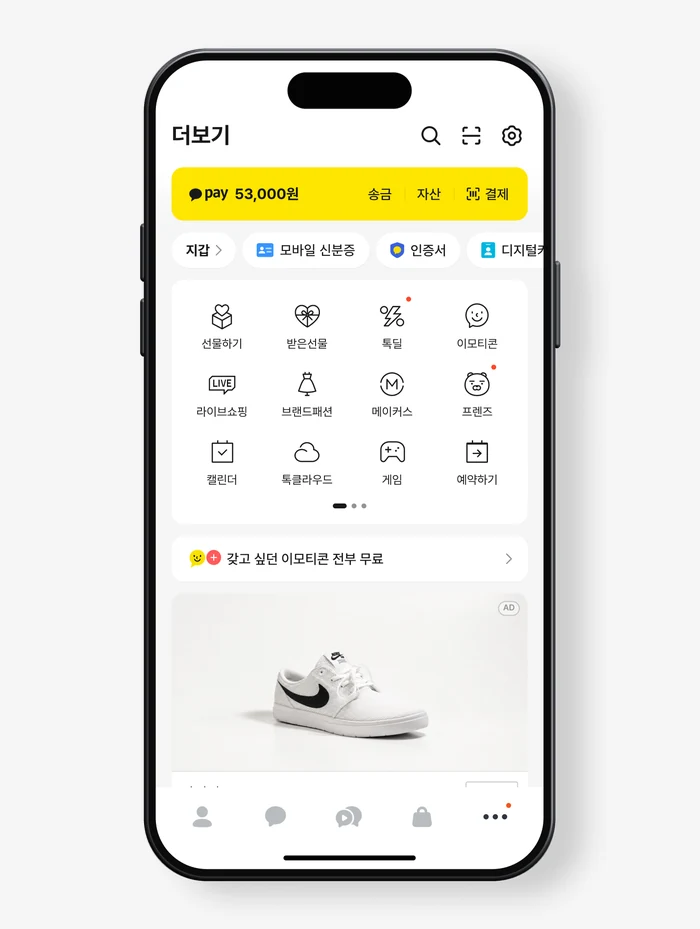
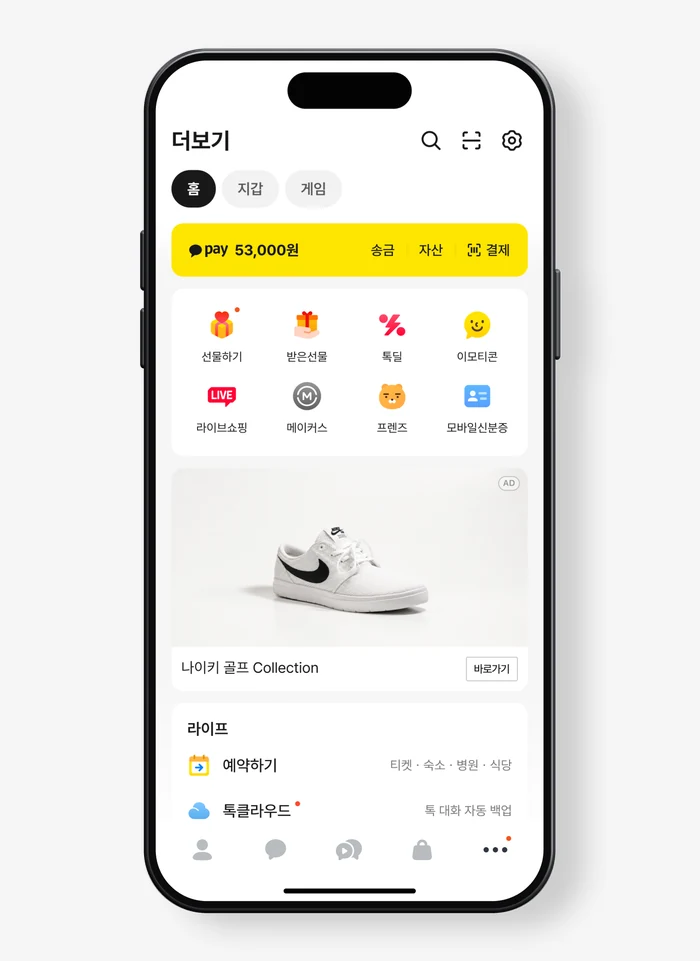
썸네일 세 장 평면 버전으로 복원, 더보기탭 히어로를 그리드+리스트 화면으로
- 홈 썸네일(더보기탭·다음앱·TalkLint)을 다른 썸네일과 같은 평면 화면 크롭으로 되돌림
- 상세 히어로를 실험 전 화면에서 13장 하이브리드 화면으로 교체, 2차 혼합 구조 그림은 덱 13장 주석 무대로

diff --git a/index.html b/index.html
@@ -72,7 +72,7 @@
         <p class="gal-desc">이용 변화와 매출 영향을 함께 검증했습니다.</p>
       </a></li>
       <li><a href="list-exploration.html">
-        <div class="gal-thumb"><img src="img/case03-s.webp?v=202611171900" width="1092" height="705" alt="기울어진 폰 화면 속 더보기탭. 페이 띠 아래 서비스 그리드와 라이프 리스트가 이어진다"></div>
+        <div class="gal-thumb"><img src="img/case03-s.webp?v=202611171930" width="1092" height="705" alt="그리드와 리스트를 함께 쓰는 실험안에서 고른 두 부분. 위는 4열 2행 그래픽 아이콘 그리드, 아래는 라이프 카테고리 리스트"></div>
         <h3>더보기탭 탐색 개선<span class="gal-badge is-quiet" title="후속 디자인 진행 중">WIP</span></h3>
         <p class="gal-desc">그리드와 리스트를 결합한 탐색 구조를 설계했습니다.</p>
       </a></li>
@@ -93,7 +93,7 @@
     <h2 class="gal-title" id="h-sys">Systems</h2>
     <ul class="gal">
       <li><a href="talklint.html">
-        <div class="gal-thumb"><img src="img/talklint-s.webp?v=202611171900" width="1092" height="705" alt="기울어진 TalkLint 플러그인 창. 검수 방식과 검수 범위 스위치가 보인다"></div>
+        <div class="gal-thumb"><img src="img/talklint-s.webp?v=202611171930" width="1092" height="705" alt="TalkLint 수정 미리보기의 바꿀 색 고르기와 전후 비교. 연한 노랑 버튼이 지금, 디자인 시스템 노랑으로 바뀐 버튼이 고친 뒤"></div>
         <h3>TalkLint</h3>
         <p class="gal-desc">가이드 원문으로 판단하는 AI 검수 도구를 만들었습니다.</p>
       </a></li>
@@ -114,7 +114,7 @@
     <h2 class="gal-title" id="h-fnd">Redesigns</h2>
     <ul class="gal">
       <li><a href="daum-app.html">
-        <div class="gal-thumb"><img src="img/daumapp-c.webp?v=202611171900" width="1092" height="705" alt="층으로 띄운 다음앱 홈 화면. 인사말과 검색창, 날씨·증시 카드, 피드 카드가 겹겹이 떠 있다"></div>
+        <div class="gal-thumb"><img src="img/daumapp-c.webp?v=202611171930" width="1092" height="705" alt="다음앱 개편 화면 두 장. 인사말과 검색창, 날씨·증시 카드가 있는 홈과 추천 피드 화면"></div>
         <h3>다음앱 구조 개편</h3>
         <p class="gal-desc">홈과 피드를 연결하는 탐색 구조를 설계했습니다.</p>
       </a></li>

diff --git a/list-exploration.html b/list-exploration.html
@@ -22,8 +22,8 @@
   <article class="cs">
     <figure class="cs-hero">
       <picture>
-        <source media="(max-width:820px)" srcset="img/case02/d-hero-m.webp?v=202611171900" width="700" height="929">
-        <img src="img/case02/d-hero.webp?v=202611171900" width="2240" height="1430" alt="실험 전 더보기탭 첫 화면. 상단 페이 영역, 지갑 바로가기 줄, 4열 3행 서비스 그리드, 이모티콘 배너, 광고가 차례로 놓여 있다">
+        <source media="(max-width:820px)" srcset="img/case02/d-hero-m.webp?v=202611171930" width="700" height="961">
+        <img src="img/case02/d-hero.webp?v=202611171930" width="2240" height="1475" alt="그리드와 리스트를 결합한 더보기탭 화면. 페이 영역 아래 4열 2행 주요 서비스 그리드, 광고, 그 아래 라이프 카테고리 리스트가 이어진다">
       </picture>
     </figure>
 
@@ -127,9 +127,8 @@
       </div>
     </section>
     <section class="cs-block" id="round2">
-      <figure class="cs-fig cs-stage" style="--cb:7.05%;--cbm:4.15%">
-        <picture><source media="(max-width:820px)" srcset="img/case02/d-round2-m.webp?v=202611171900" width="700" height="963"><img src="img/case02/d-round2.webp?v=202611171900" width="2240" height="1362" alt="하이브리드안 화면. 페이 영역 아래 4열 2행 주요 서비스 그리드, 광고, 그 아래 라이프 카테고리 리스트가 이어진다" loading="lazy"></picture>
-        <figcaption style="left:50%">4×2 그리드 + 리스트</figcaption>
+      <figure class="cs-fig">
+        <picture><source media="(max-width:820px)" srcset="img/case02/s13-m.webp?v=202611171930" width="1000" height="833"><img src="img/case02/s13.webp?v=202611171930" width="2240" height="1738" alt="하이브리드안 화면과 오른쪽 괄호. 주요 서비스로 바로 가는 4열 2행 그리드, 첫 화면 안의 사업 지면인 광고, 나머지 서비스를 찾는 리스트" loading="lazy"></picture>
       </figure>
       <div class="cs-sec cs-col">
         <p class="cs-label">2차 실험 - 혼합 구조</p>
